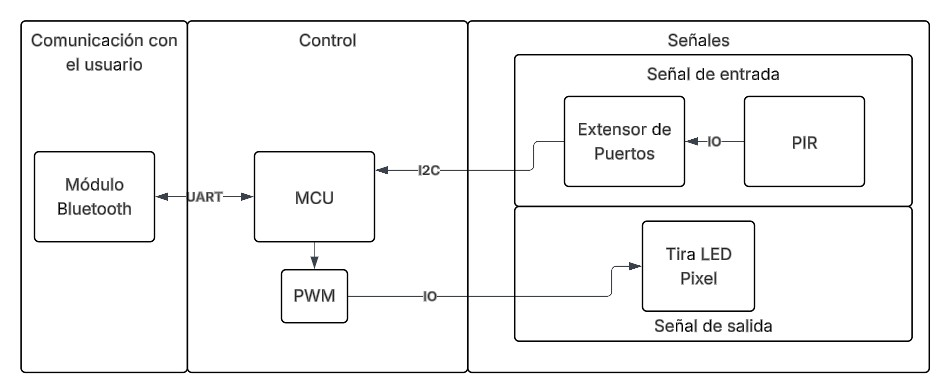
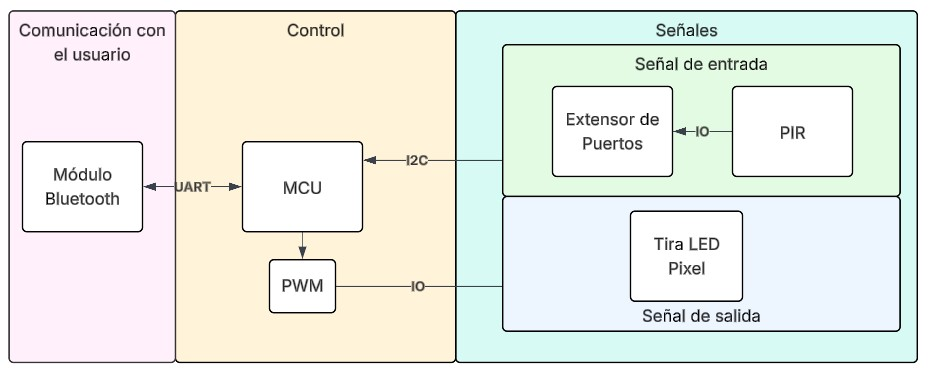
mejora diagrama de bloque

diff --git a/Chapters/Chapter3.tex b/Chapters/Chapter3.tex
@@ -49,7 +49,7 @@ Esta sección analiza el diseño del sistema de iluminación, la conectividad en
 
 \begin{figure}[h]
 	\centering
-	\includegraphics[width=10cm, height=5cm]{./Figures/dbloques.jpg}
+	\includegraphics[width=14cm, height=6cm]{./Figures/dbloques.jpg}
 	\caption{Diagrama en bloques del sistema.}
 	\label{fig:bloques}
 \end{figure}
